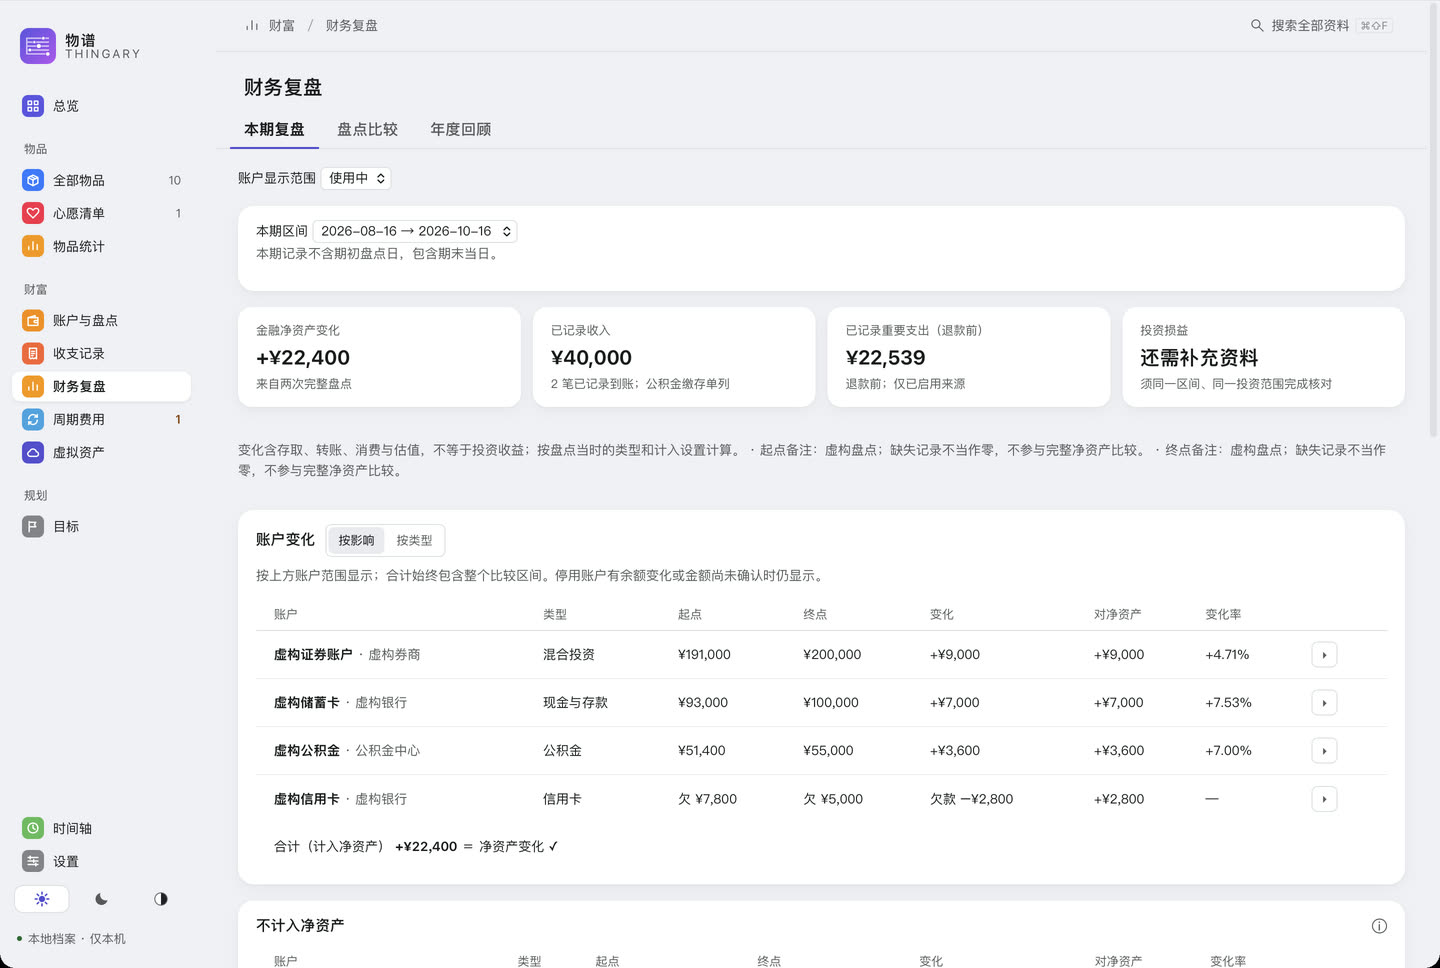
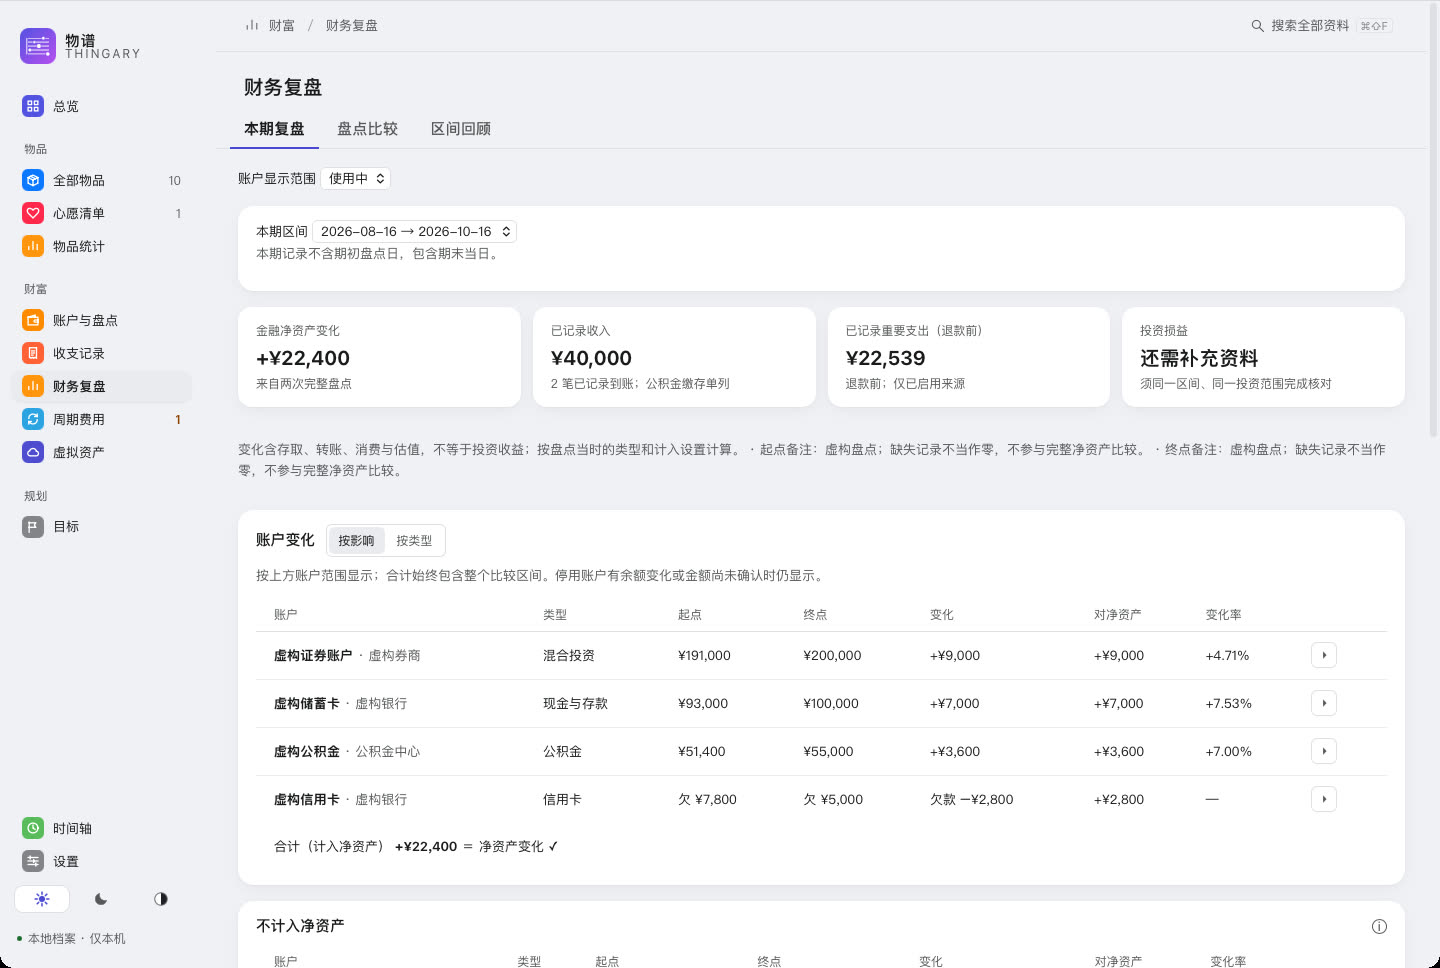
Retake the finance review screenshot so the tab reads 区间回顾

diff --git a/docs/images/README.md b/docs/images/README.md
@@ -10,7 +10,7 @@
 | `wealth-light.jpg` | 账户与盘点概览 |
 | `planning-goals.jpg` | 目标页：三个问题与当前结论 |
 | `savings-goals.jpg` | 总览中的存钱目标卡片 |
-| `finance-review.jpg` | 财务复盘 › 本期复盘 |
+| `finance-review.jpg` | 财务复盘 › 本期复盘；区间回顾改名后（`d4cd0ae`）重拍，页签显示「区间回顾」，身份 `local.thingary.shots.s20261017`，1× 捕获，同样 1440×968 |
 | `annual-review.jpg` | 财务复盘 › 区间回顾，默认近 12 个月；三次稀疏盘点，标题显示真实起止日期，存钱目标显示当前进度 |
 | `backup-security.jpg` | 设置 › 数据管理：备份安全（默认未加密）与自动备份 |
 | `start-choice.jpg` | 全新空个人库的起步卡片 |
